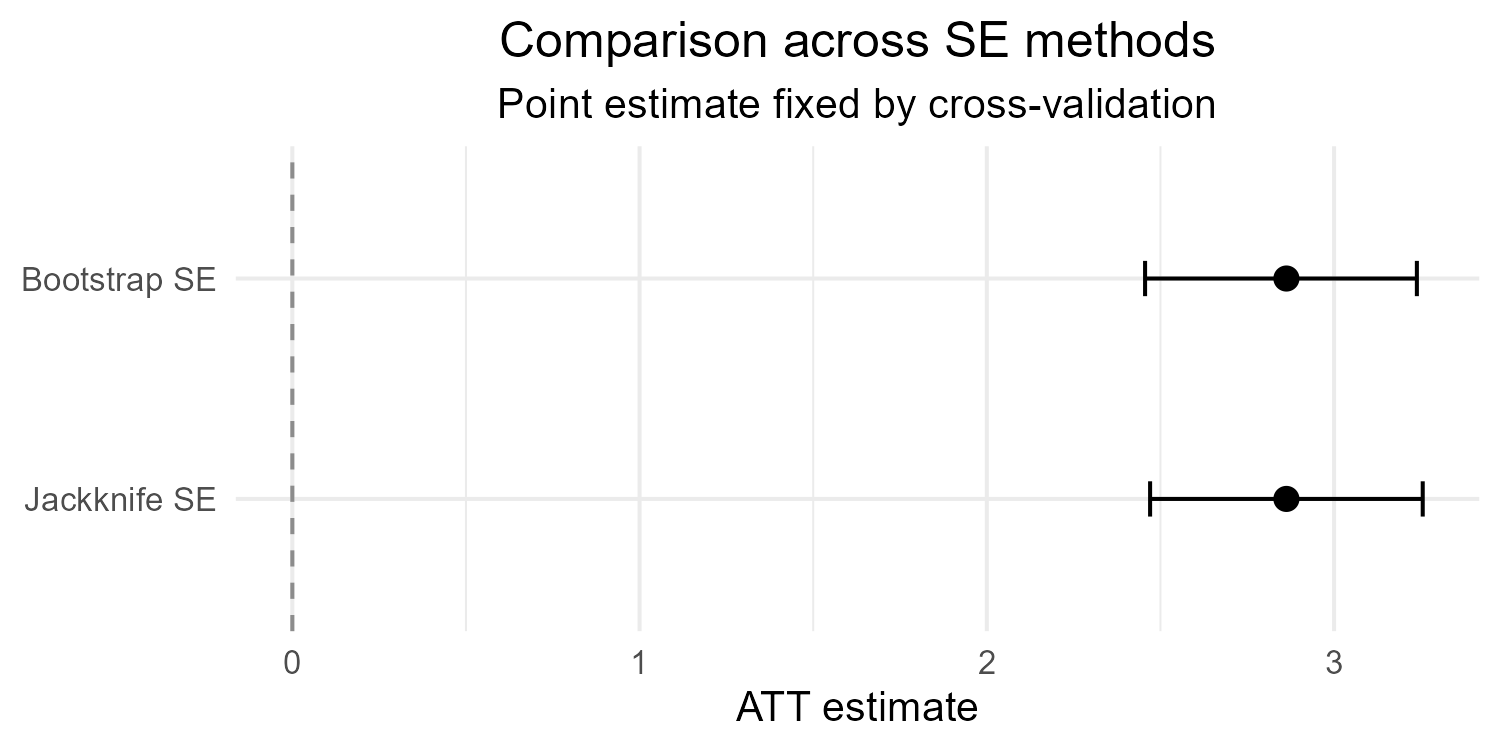
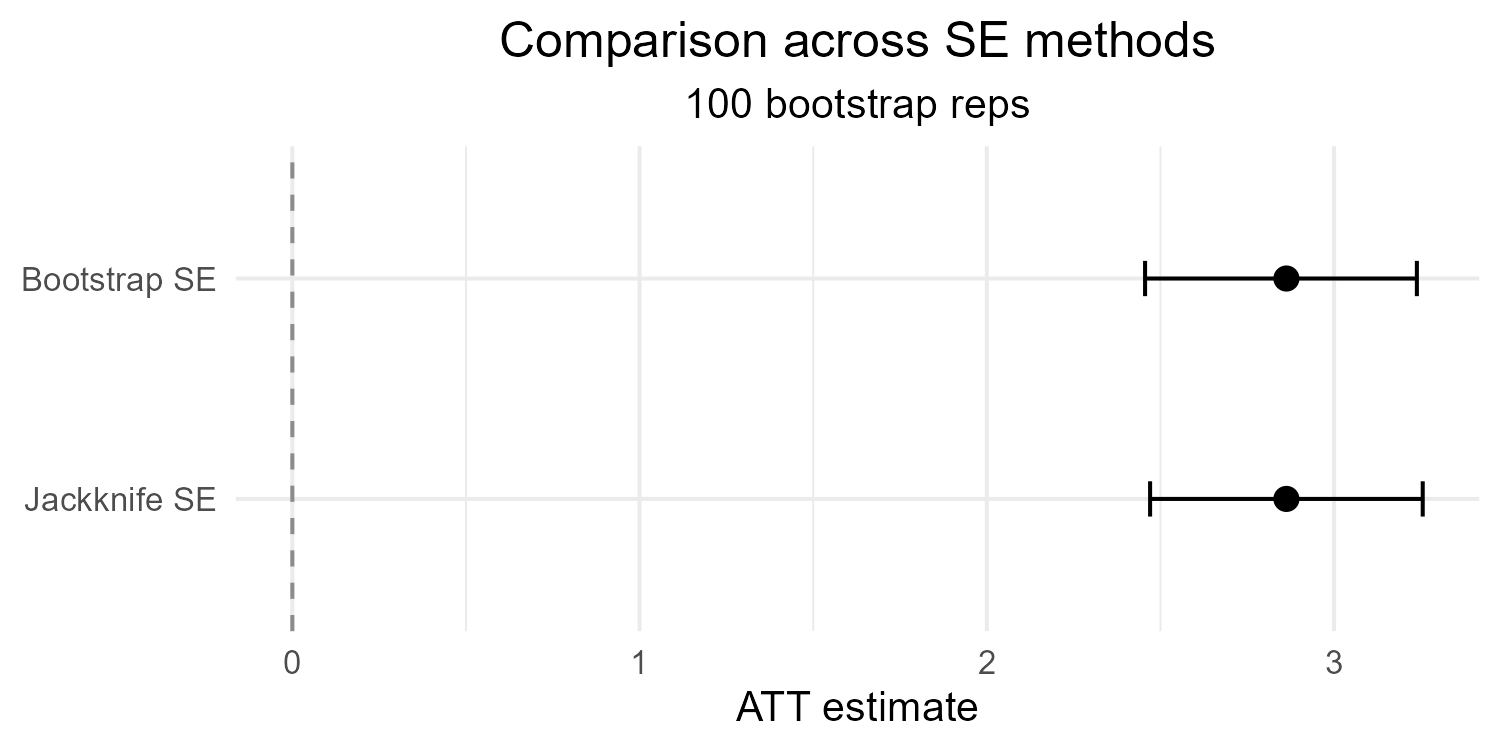
update

Changed region(s): [[0.3373, 0.1227, 0.828, 0.184]]

diff --git a/NEWS.md b/NEWS.md
@@ -1,4 +1,4 @@
-# cfcompare 0.1.0.9002
+# cfcompare 0.1.0.9003
 
 * Native R implementations of the Triply
   RObust Panel (TROP) estimator of Athey, Imbens, Qu & Viviano (2026).